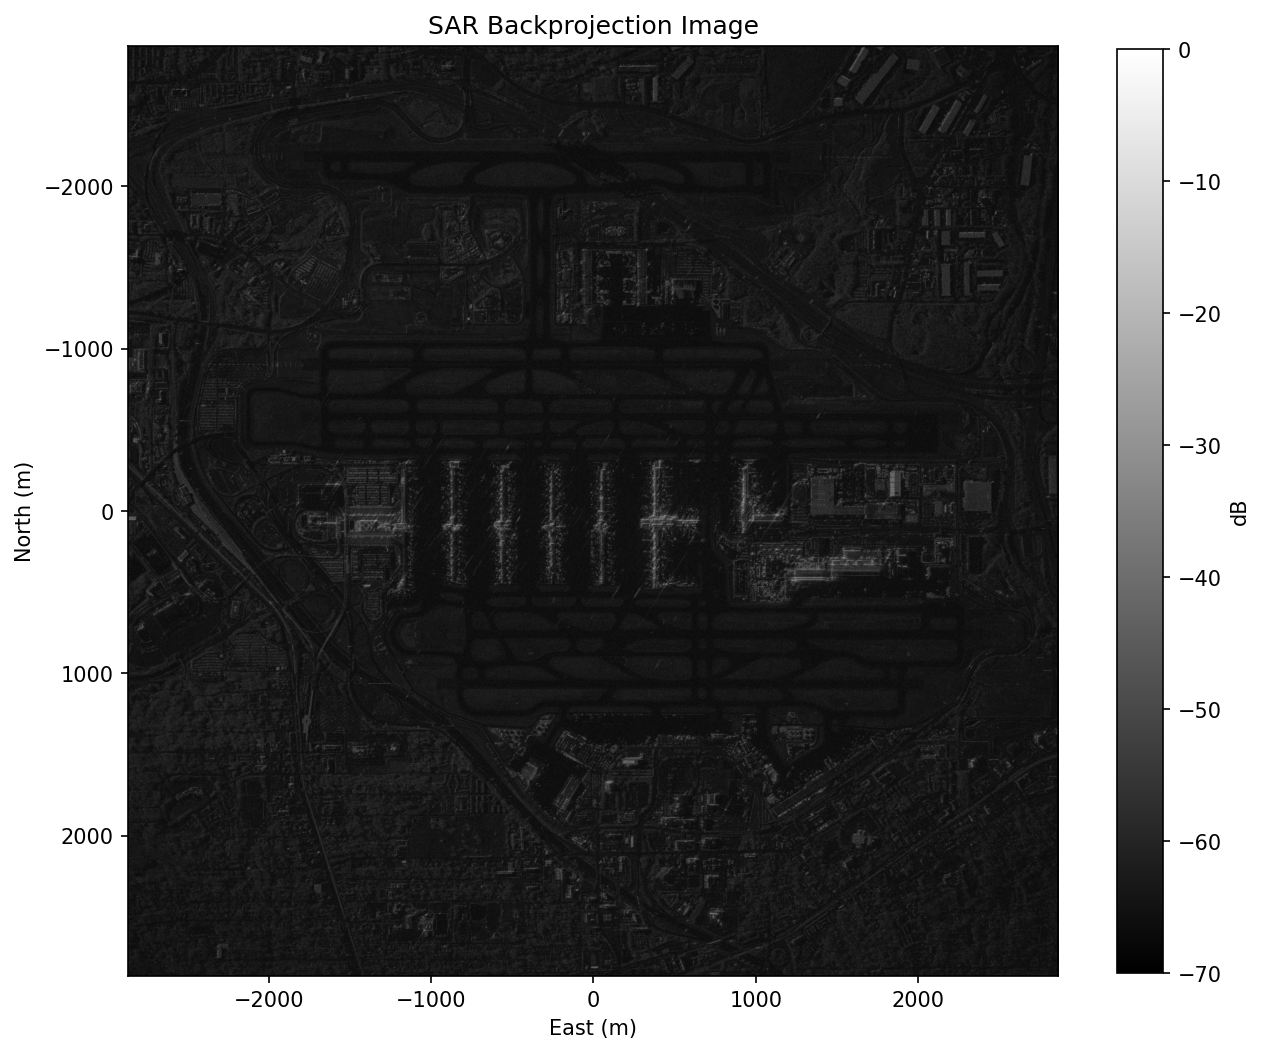
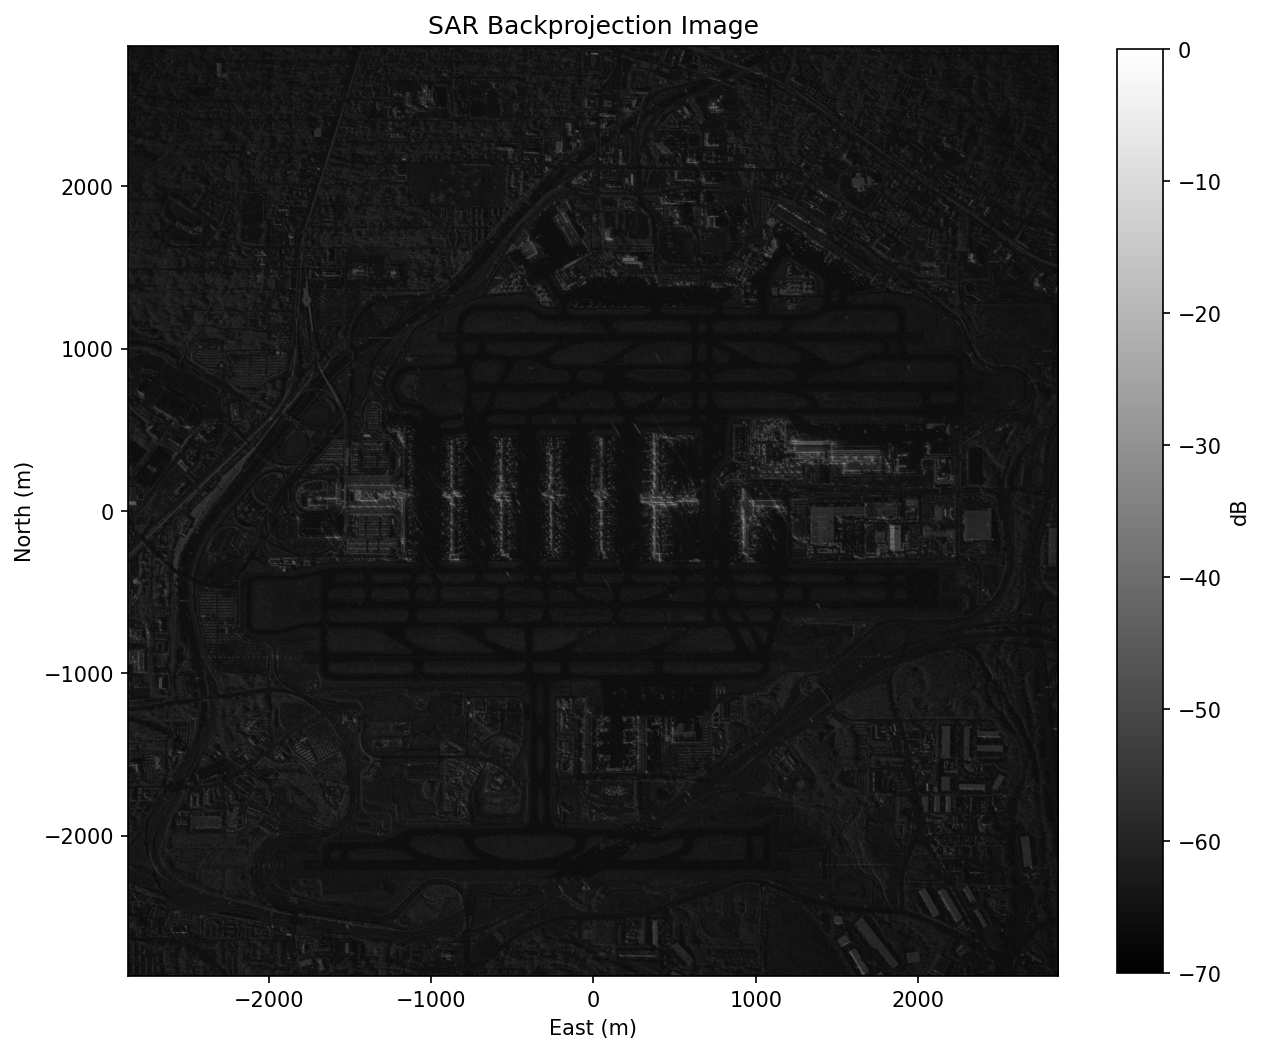
Fix viewer orientation; update example SAR image

diff --git a/examples/sarbp/view_sarbp_image.py b/examples/sarbp/view_sarbp_image.py
@@ -190,13 +190,19 @@ def main():
         dy = sarbp_info["voxel_stride_y"]
         x1 = x0 + dx * (width - 1)
         y1 = y0 + dy * (height - 1)
-        # imshow extent: [left, right, bottom, top]
-        # origin="upper" means row 0 is at top, so top=y0, bottom=y1
-        extent = [x0 - dx / 2, x1 + dx / 2, y1 + dy / 2, y0 - dy / 2]
+        # imshow extent: [left, right, bottom, top].
+        # origin="lower" places row 0 at the bottom of the y-axis so the
+        # display follows the map convention with North (increasing y) up.
+        # Row 0 holds voxels at y = voxel_start_y; with voxel_stride_y > 0
+        # this makes the south edge the bottom and the north edge the top.
+        extent = [x0 - dx / 2, x1 + dx / 2, y0 - dy / 2, y1 + dy / 2]
         has_coords = True
 
+    # Row 0 of mag_db corresponds to voxel_start_y (the south edge), so
+    # origin="lower" displays the image with North up regardless of whether
+    # we annotate the axes with meters (coord mode) or pixel indices.
     im = ax.imshow(mag_db, cmap=args.cmap, vmin=vmin, vmax=vmax,
-                   origin="upper", aspect="equal", extent=extent)
+                   origin="lower", aspect="equal", extent=extent)
     fig.colorbar(im, ax=ax, label="dB", shrink=0.8)
     ax.set_title("SAR Backprojection Image")
     if has_coords:
